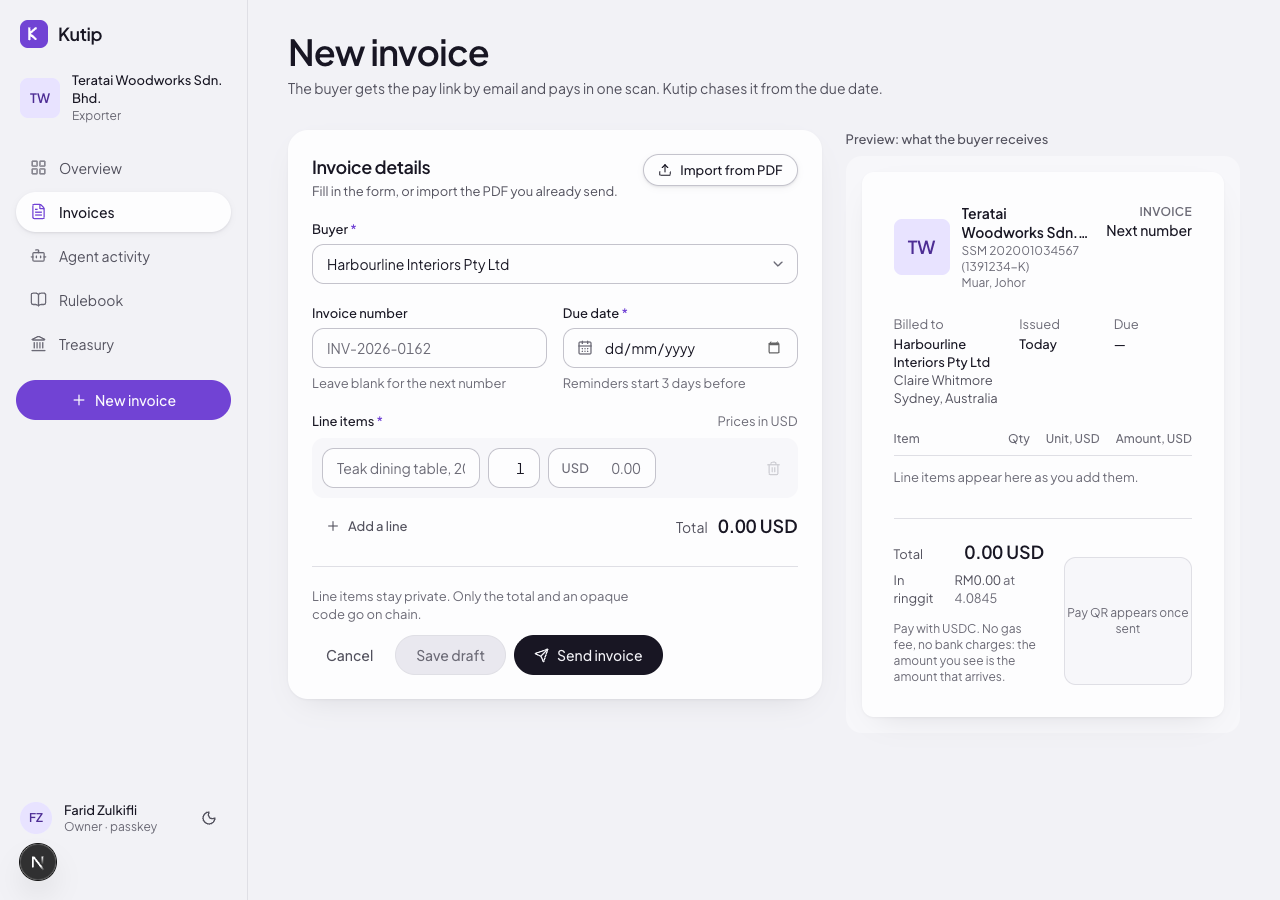
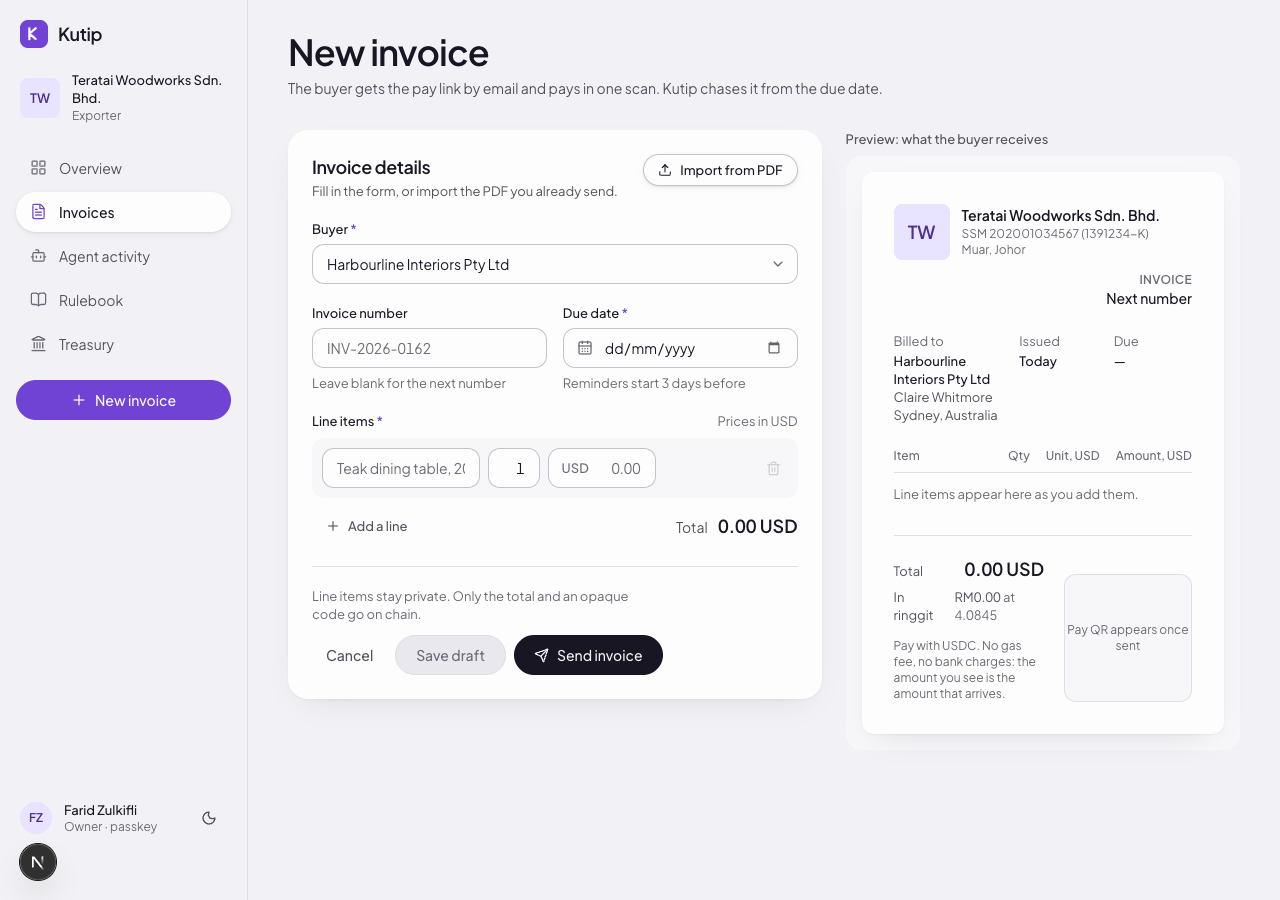
ui: never clamp the exporter's legal name on the invoice document
The name wraps in full (break-words, no line clamp); the INVOICE number and
status block drops beneath it when the row is narrower than 240px plus the
block. Pay, new-invoice and detail screenshots regenerated.

diff --git a/apps/web/components/invoices/invoice-document.tsx b/apps/web/components/invoices/invoice-document.tsx
@@ -61,12 +61,12 @@ export function InvoiceDocument({
   const balance = receivedUsdc !== undefined ? totalUsdc - receivedUsdc : undefined;
   const article = (
       <article className={`${tone === "flat" ? "rounded-xl bg-surface ring-1 ring-inset ring-line" : "rounded-md bg-surface shadow-card"} ${pad}`} aria-label={`Invoice ${number}`}>
-        {/* The number block drops under the name on narrow screens, so the exporter's name is never cut. */}
+        {/* The exporter's legal name always wraps in full; the number block drops beneath it when space is tight. */}
         <header className="flex flex-wrap items-start justify-between gap-x-4 gap-y-3">
-          <div className="flex min-w-0 flex-1 basis-[160px] items-center gap-3">
+          <div className="flex min-w-0 flex-1 basis-[240px] items-center gap-3">
             <Avatar name={from.name} src={from.logo} size={compact ? "md" : "lg"} shape="square" />
             <div className="min-w-0">
-              <p className="line-clamp-2 text-base font-semibold leading-snug text-ink">{from.name}</p>
+              <p className="break-words text-base font-semibold leading-snug text-ink">{from.name}</p>
               {from.lines?.map((l) => (
                 <p key={l} className="text-xs text-ink-3">{l}</p>
               ))}
